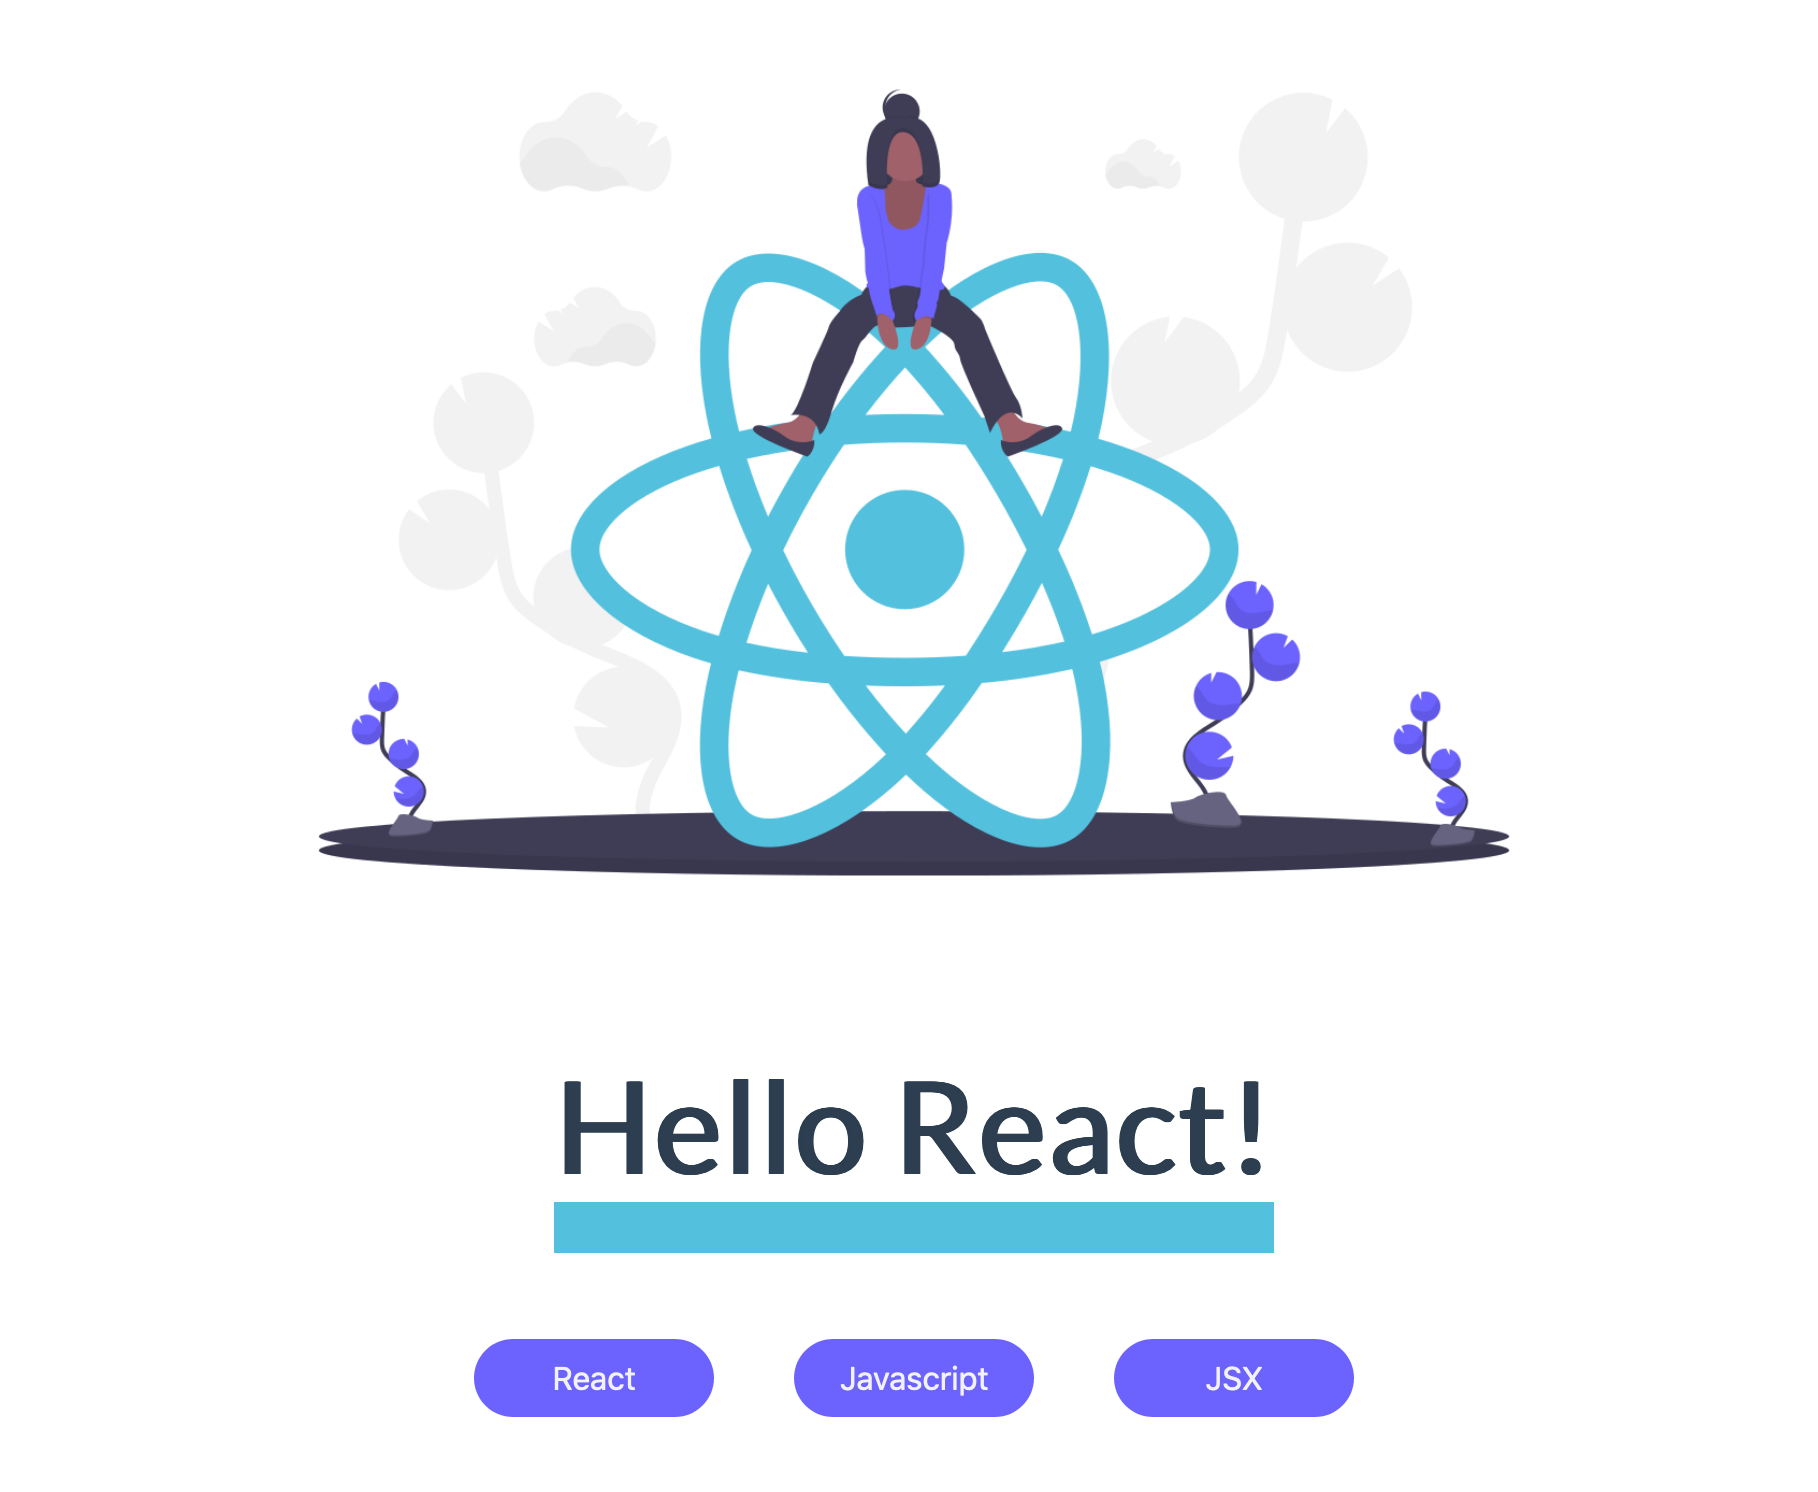
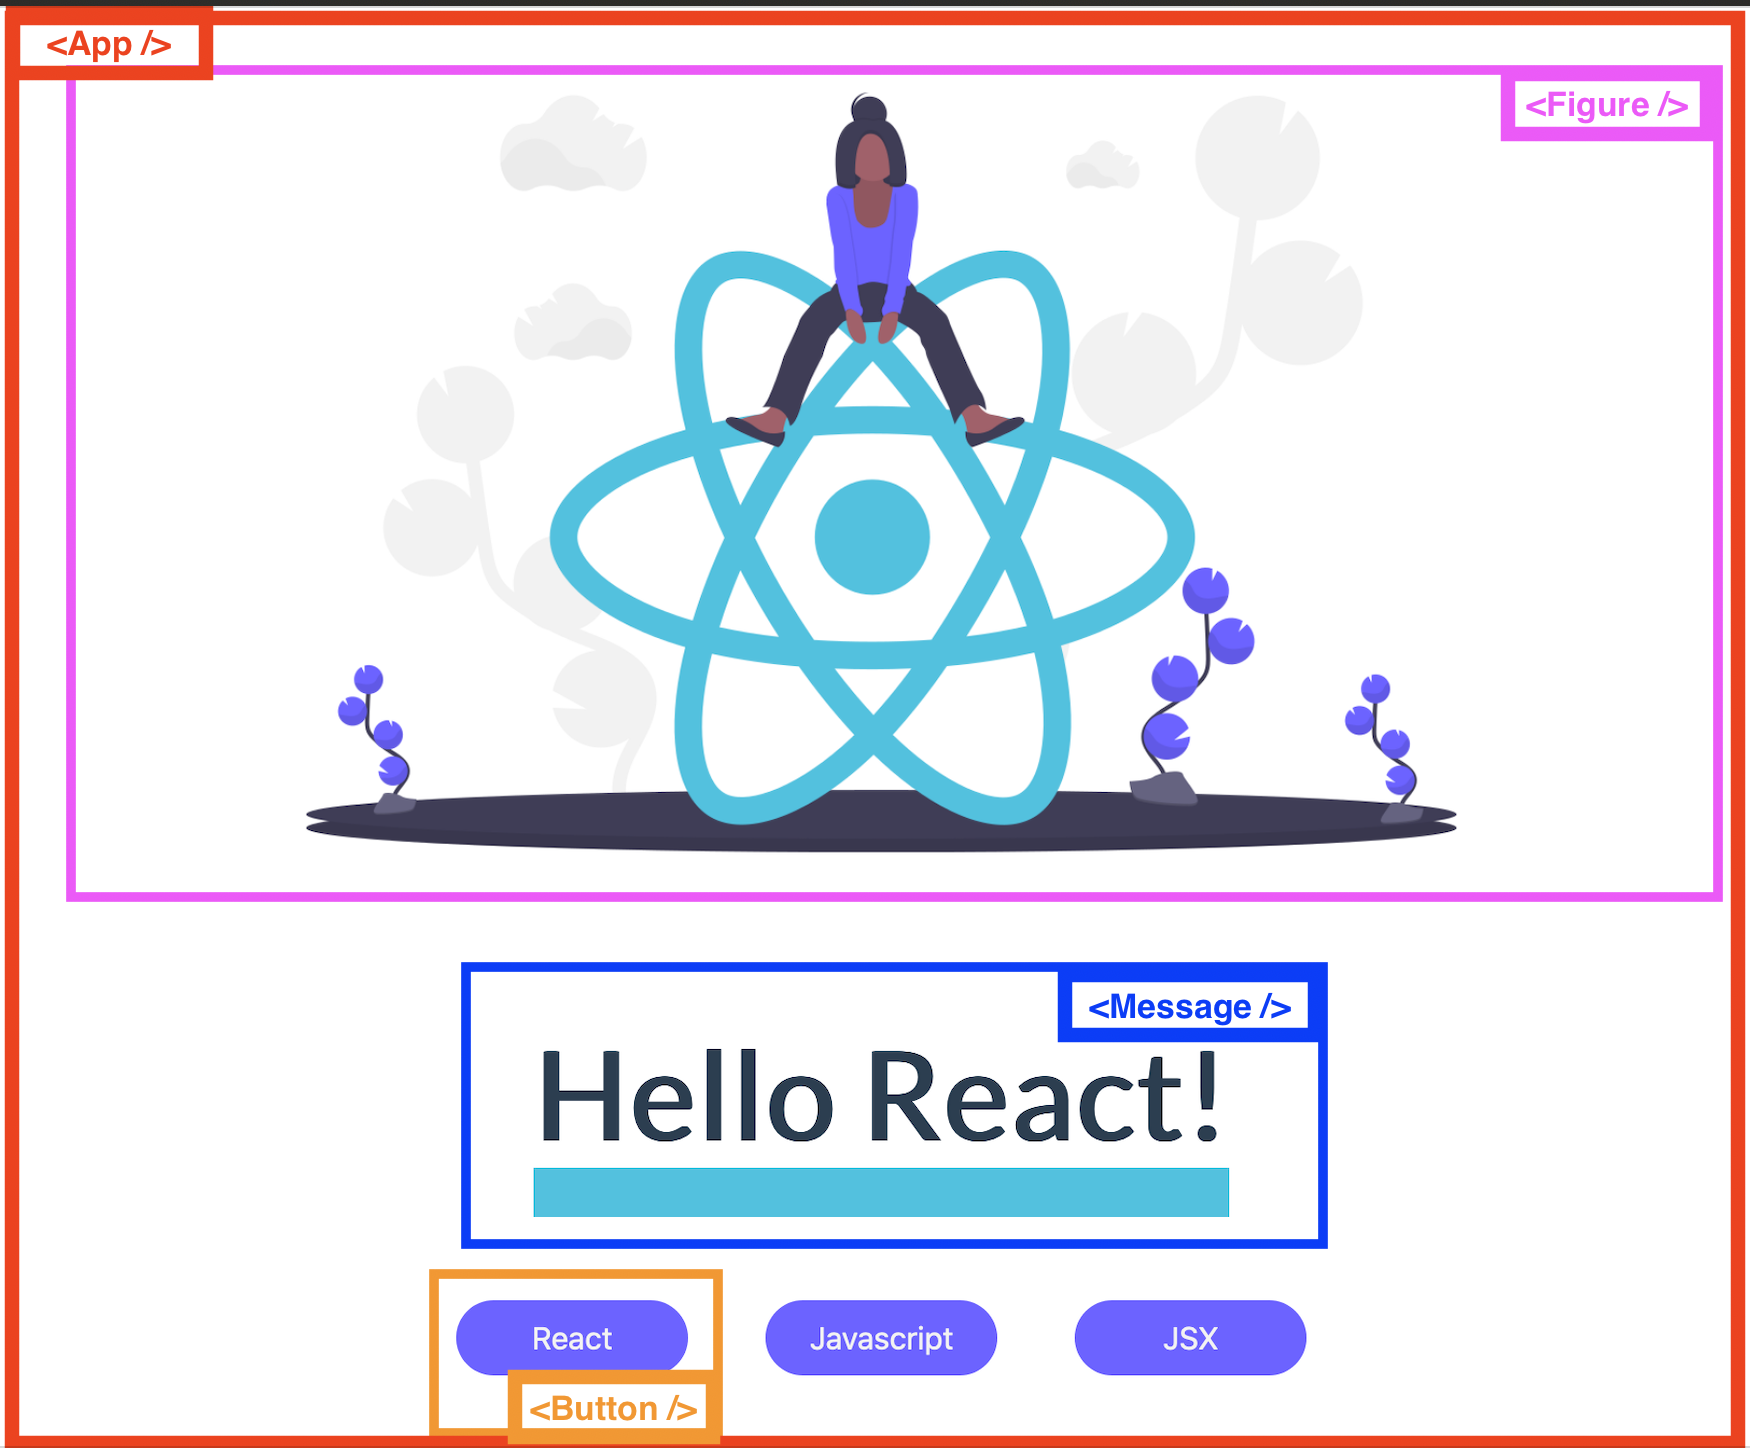
GitBook: [master] one page and 2 assets modified

diff --git a/react.md b/react.md
@@ -22,7 +22,7 @@ Virtual DOM é uma técnica que o React usa pra atualizar a tela onde é constru
 
 Para entendermos os próximos conceitos vamos criar juntas essa pequena aplicação usando React.
 
-![Imagem da aplica&#xE7;&#xE3;o que vamos criar juntas nessa se&#xE7;&#xE3;o.](.gitbook/assets/image%20%284%29.png)
+![Imagem da aplica&#xE7;&#xE3;o que vamos criar juntas nessa se&#xE7;&#xE3;o.](.gitbook/assets/image%20%285%29.png)
 
 ### O que é componente?
 
@@ -36,6 +36,10 @@ Agora vamos tentar entender tudo isso através da nossa aplicação que conterá
 4. Existe uma lista de palavras que são reservadas do javascript que não conseguimos utilizá-las no retorno do nosso componente React, por exemplo `class` que usamos para por estilo no nosso componente é substituída por `className`.
 5. Componente `<App />` que retorna uma `<div>` com todos os componentes que criamos e na ordem que eles devem ser apresentados na tela.
 6. Por fim teremos o `index.js` que terá o método para de fato renderizar nosso componente `<App/>` no `DOM` e fazer com que o usuário possa visualizar nossa aplicação.
+
+Abaixo está uma representação da nossa aplicação dividida por componentes:
+
+![](.gitbook/assets/image%20%284%29.png)
 
 ### 1. Criando o componente`<Message />`
 
